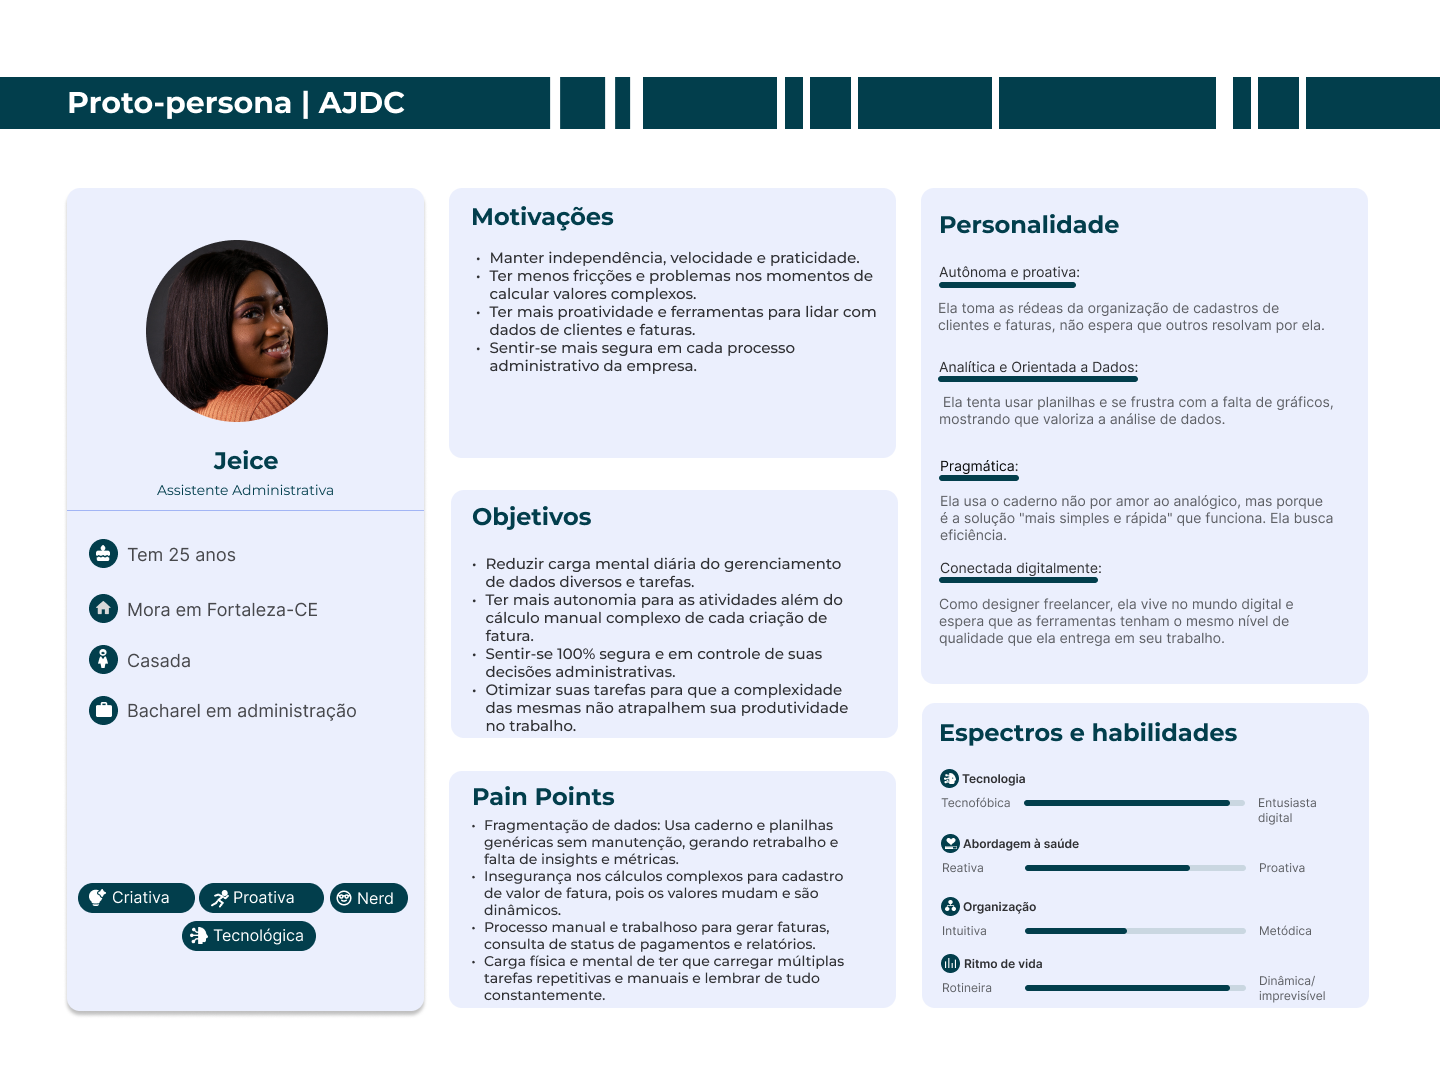
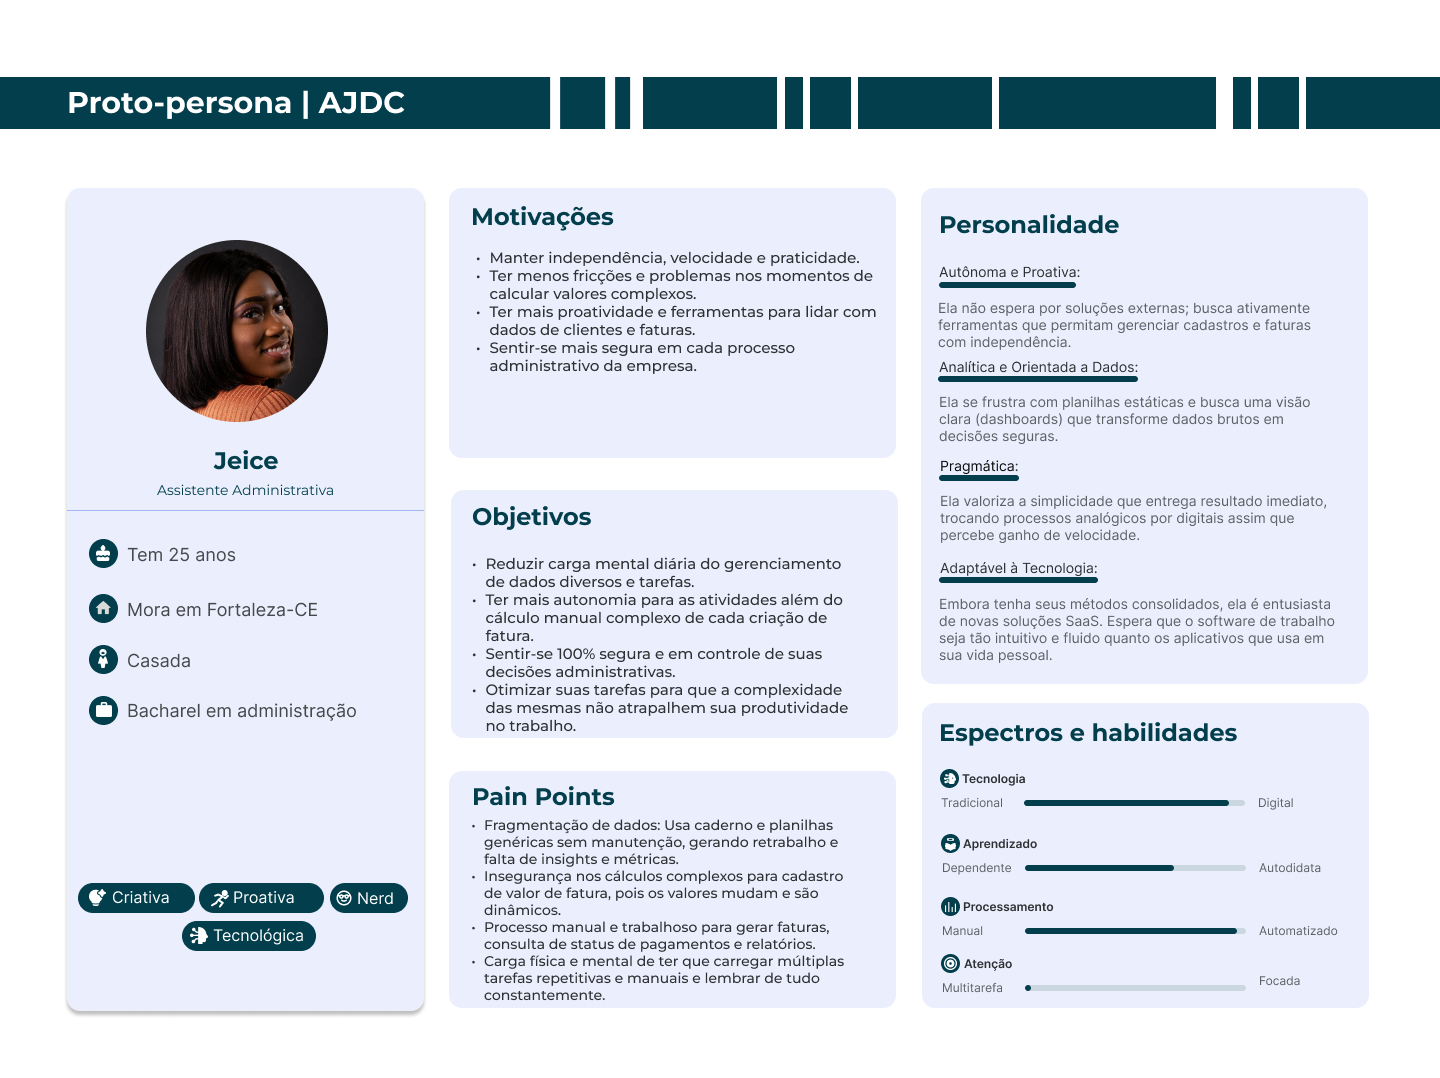
finalizando design de estilo

diff --git a/pages/ajdc.html b/pages/ajdc.html
@@ -252,7 +252,7 @@
 </section>
 
 
-<!-- SECTION 6: WIREFRAMES -->
+<!-- SECTION 6: WIREFRAMES: baixa fidelidade -->
 <section class="about-project-section py-5 position-relative" style="overflow: hidden;">
     <!-- Backgrounds Decorativos (Posicionados para não dar scroll) -->
     <div class="about-project-decor-1">
@@ -262,9 +262,10 @@
     <div class="container py-5 position-relative" style="z-index: 2;">
         <div class="row mb-5">
             <div class="col-lg-12">
-                <h2 class="section-label-main text-uppercase mb-4">WIREFRAMES</h2>
+                <h2 class="section-label-main text-uppercase mb-4">WIREFRAMES & <br> arquitetura funcional</h2>
                 <p class="project-intro-text mb-4">
-                    Na etapa de wireframes de baixa fidelidade, busquei estruturar a hierarquia das informações e validar o fluxo de navegação antes de aplicar a identidade visual da Eleveit. O foco esteve em definir a disposição dos elementos, o comportamento responsivo e a clareza da jornada do usuário entre as seções principais.
+                    Na etapa de wireframes, meu foco principal foi a organização de dados densos e a validação das regras de negócio do setor de energia solar. Dada a complexidade dos cálculos de faturamento e a diversidade de categorias de clientes, utilizei o design de média fidelidade para estruturar interfaces que priorizam a precisão e a velocidade de operação. 
+                    <p class="project-intro-text mb-4">Através de iterações constantes com stakeholders e usuários finais, refinei fluxos críticos como o cadastro de clientes, a geração automática de faturas e a consulta de pagamentos. Cada tela foi projetada para minimizar erros humanos, com elementos visuais que guiam o usuário através de processos complexos de forma intuitiva. O resultado é uma base sólida que sustenta a experiência do usuário, garantindo que cada interação seja eficiente e livre de ambiguidades.</p>
                 </p>
                 
             <img src="../images/ajdc_mockups/wireframes_baixa_ajdc.png" class="img-fluid w-100" alt="Estrutura">
@@ -289,17 +290,18 @@
             <div class="col-lg-12">
                 <h2 class="section-label-main text-uppercase mb-4">Design de interface <br> do usuário</h2>
                 <p class="project-intro-text mb-4">
-                    O style guide foi desenvolvido com o objetivo de garantir consistência visual e uma identidade moderna para a plataforma Eleveit. A escolha do degradê azul–verde transmite tecnologia e acessibilidade, reforçando a missão do projeto de conectar jovens ao futuro profissional.
+                    O design de interface do AJDC foi projetado para equilibrar a robustez de um sistema financeiro com a leveza de uma ferramenta moderna de energia limpa. O objetivo principal do Style Guide foi garantir consistência absoluta entre os módulos, facilitando o aprendizado da equipe e otimizando o fluxo de faturamento.
                 </p>
                 <p class="project-intro-text mb-4">
                     <ul class="project-intro-text mb-4">
-                        <li class="project-intro-text mb-4"> <strong>Tipografia:</strong> A família Inter foi escolhida por seu excelente desempenho em telas digitais, legibilidade e estilo contemporâneo. As variações de peso e tamanho criam uma hierarquia clara entre títulos, subtítulos e textos.</li>
-                         <li class="project-intro-text mb-4"> <strong>Botões e Cards: </strong> Foram definidos dois estilos de botão (solid e outline) para criar contraste entre ações primárias e secundárias. Os cards seguem o mesmo padrão visual, utilizando cantos arredondados e sombras sutis para transmitir modernidade e profundidade.</li>
-                          <li class="project-intro-text mb-4"> <strong>Iconografia: </strong>  Ícones minimalistas e universais reforçam a comunicação visual da interface, priorizando clareza e acessibilidade.</li>
+                        <li class="project-intro-text mb-4"> <strong>Cores e Semântica:</strong> A paleta utiliza tons de Azul Petróleo e Teals para transmitir estabilidade e profissionalismo, remetendo diretamente ao setor de energia sustentável. Utilizamos o Verde Esmeralda para estados de sucesso e o Coral Vibrante para alertas críticos, garantindo que o usuário identifique instantaneamente o status das faturas e processos.</li>
+                         <li class="project-intro-text mb-4"> <strong>Tipografia (Inter):  </strong>  Escolhi a família Inter por sua versatilidade sistêmica. Sua alta legibilidade em diferentes escalas foi fundamental para organizar tabelas densas e dashboards, mantendo uma hierarquia clara entre dados operacionais e métricas de decisão.</li>
+                          <li class="project-intro-text mb-4"> <strong>Componentização e Botões:  </strong>  Desenvolvi uma biblioteca de componentes modulares com estilos Solid e Outline. Essa abordagem não apenas melhora a experiência do usuário através da previsibilidade, mas também garantiu um handoff ágil para o desenvolvimento no FlutterFlow, permitindo a reutilização de elementos e a escalabilidade do sistema.</li>
+                          <li class="project-intro-text mb-4"> <strong>Iconografia:  </strong>  Utilizamos ícones minimalistas de traço limpo para auxiliar no reconhecimento cognitivo rápido das funcionalidades, reduzindo o tempo de resposta do administrador durante tarefas repetitivas.</li>
                     </ul>
                 </p>
                 
-            <img src="../images/bg_eleveit/style guide_eleveit.png" class="img-fluid w-100" alt="Estrutura">
+            <img src="../images/ajdc_mockups/styleguide_ajdc.png" class="img-fluid w-100" alt="Estrutura">
 
                 
             </div>
